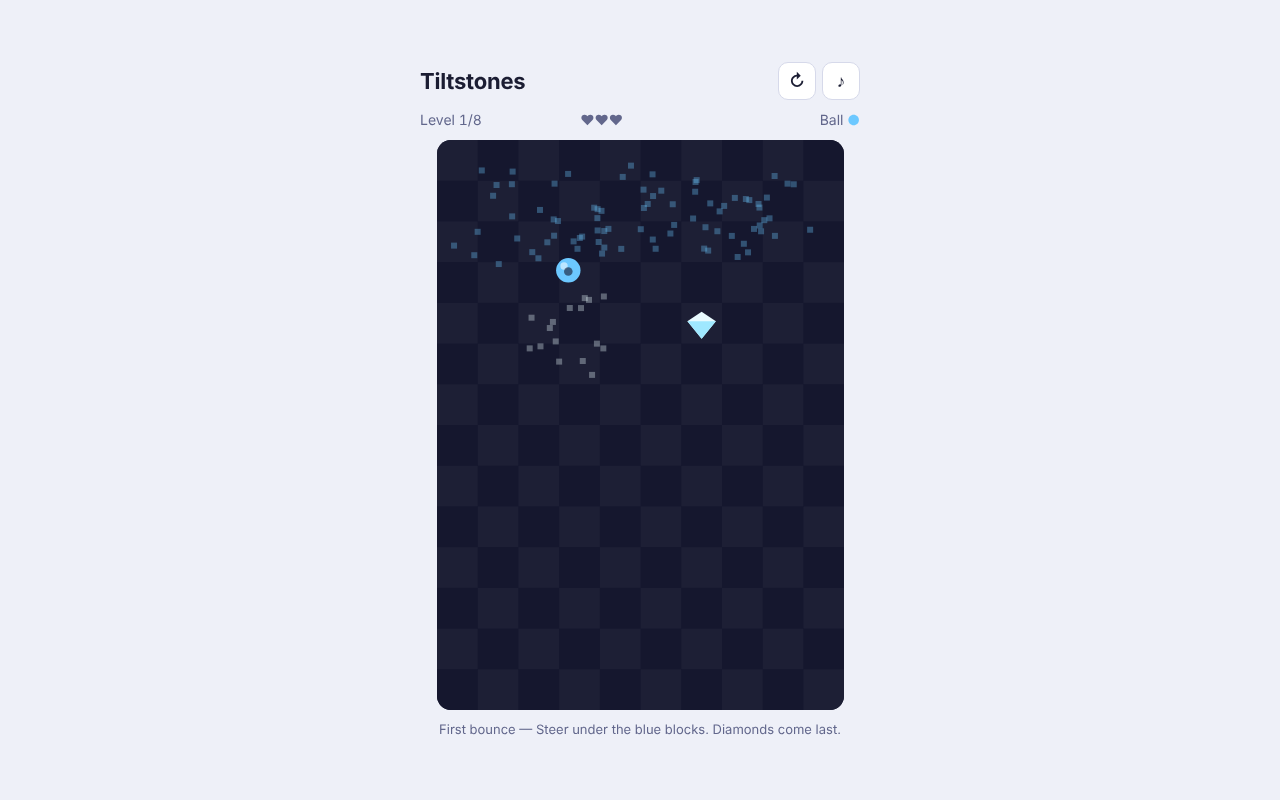
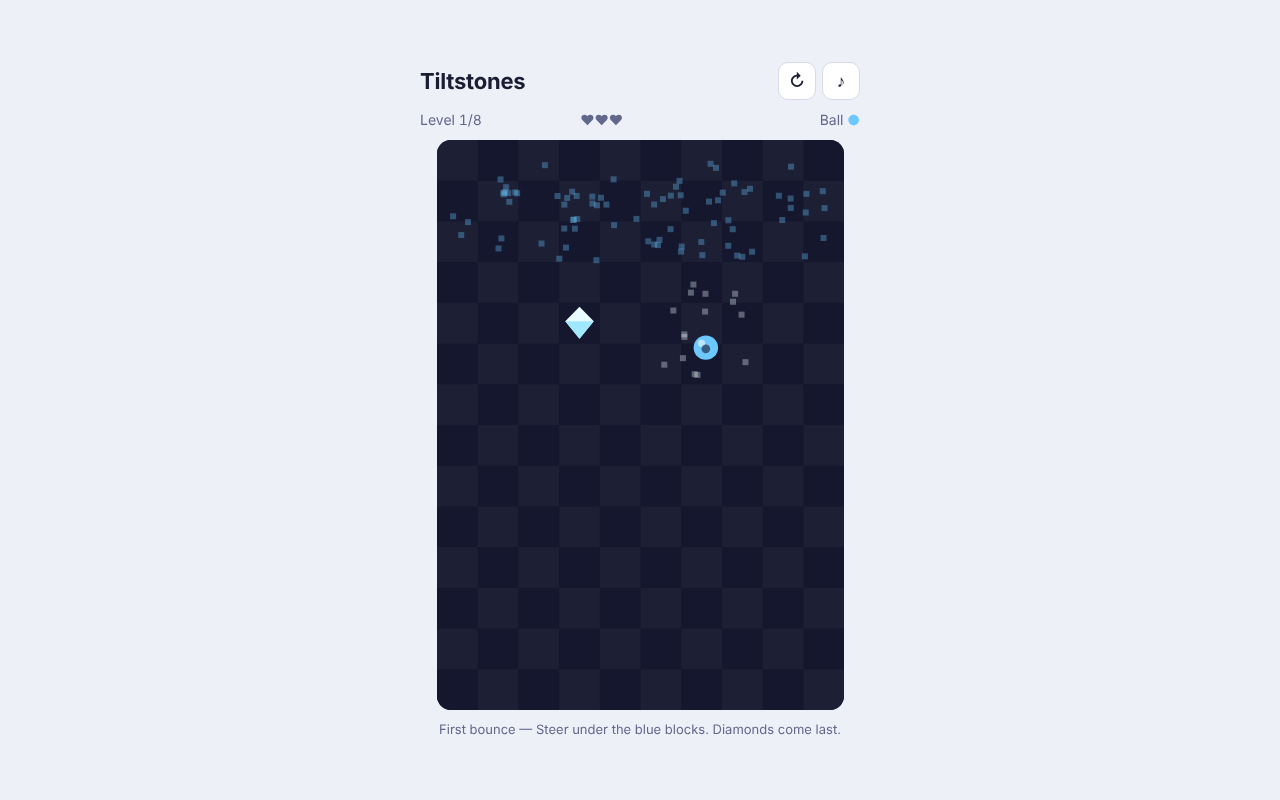
tiltstones: reviewer fixes (spawn safety, tilt calibration + meter, stuck warning, faster bounce)

Changed region(s): [[0.3438, 0.2188, 0.625, 0.4375], [0.5312, 0.3438, 0.5625, 0.4688], [0.375, 0.2188, 0.4062, 0.25]]

diff --git a/games/tiltstones/index.html b/games/tiltstones/index.html
@@ -30,6 +30,11 @@
   .icon { width: 38px; height: 38px; border-radius: 10px; border: 1px solid var(--line); background: var(--panel); color: var(--ink); font: 600 17px var(--font); cursor: pointer; display: grid; place-items: center; padding: 0; }
   .hud { display: flex; justify-content: space-between; align-items: center; color: var(--muted); font-variant-numeric: tabular-nums; font-size: 14px; gap: 8px; }
   .hud b { color: var(--ink); font-weight: 600; }
+  #tiltm { position: relative; width: 56px; height: 8px; border-radius: 4px; background: var(--line); }
+  #tiltm[hidden] { display: none; }
+  #tiltm::after { content: ""; position: absolute; left: 50%; top: -2px; width: 1px; height: 12px; background: var(--muted); }
+  #tiltDot { position: absolute; top: -2px; left: 50%; width: 12px; height: 12px; margin-left: -6px; border-radius: 50%; background: var(--accent); }
+  .help.warn { color: #d9534f; font-weight: 600; }
   .stage { position: relative; width: fit-content; max-width: 100%; margin: 0 auto; }
   canvas { display: block; width: 100%; height: auto; border-radius: 14px; touch-action: none; background: #15172e; }
   .overlay { position: absolute; inset: 0; display: grid; place-items: center; text-align: center; padding: 20px; border-radius: 14px;
@@ -61,6 +66,7 @@
     <span id="lvl">Level 1</span>
     <span id="lives">♥♥♥</span>
     <span id="keys"></span>
+    <span id="tiltm" hidden aria-label="Tilt"><i id="tiltDot"></i></span>
     <span>Ball <b id="ballc">●</b></span>
   </div>
   <div class="stage">
@@ -89,7 +95,9 @@
 // ======================= constants =======================
 const W = 10, H = 14;              // grid in cells
 const R = 0.3;                     // ball half-size (cells)
-const VY = 7.5;                    // vertical speed, cells/s
+const VY = 9;                      // vertical speed, cells/s
+const SNAP = 1.6;                  // drift toward the column centre when not steering, cells/s
+const GRACE = 30;                  // steps the ball waits after a respawn
 const VXMAX = 5.5;                 // max horizontal speed, cells/s
 const ACC = 45;                    // horizontal acceleration, cells/s^2
 const DT = 1 / 60;                 // fixed sim step
@@ -182,7 +190,7 @@ const LEVELS = [
     "...*..*...",
     "..........",
     "..........",
-    "....o.....",
+    "o.........",
   ]},
   { name: "The vault", hint: "Grab the key, then hit the lock.", map: [
     ".#*#......",
@@ -212,7 +220,7 @@ const LEVELS = [
     "..........",
     "...b..b...",
     "..........",
-    "B........*",
+    "B....*....",
     "..........",
     "....o.....",
   ]},
@@ -245,7 +253,7 @@ function newGame(level) {
     else grid.push(ch);
   }
   return { level, grid, start: [sx, sy], ball: { x: sx, y: sy, vx: 0, vy: -VY, color: 0 },
-    lives: LIVES, keys: 0, screen: "playing", steps: 0, score: 0, combo: 0, ev: [] };
+    lives: LIVES, keys: 0, screen: "playing", steps: 0, score: 0, combo: 0, grace: 0, ev: [] };
 }
 const cellAt = (g, x, y) => (x < 0 || x >= W || y < 0 || y >= H) ? "#" : g.grid[y * W + x];
 const solid = (ch) => ch !== ".";
@@ -263,7 +271,7 @@ function counts(g) {
 }
 function respawn(g) {
   g.ball = { x: g.start[0], y: g.start[1], vx: 0, vy: -VY, color: 0 };
-  g.combo = 0;
+  g.combo = 0; g.grace = GRACE;
 }
 // returns true if the ball must stop (life lost)
 function hit(g, cx, cy) {
@@ -307,6 +315,10 @@ function step(g, steer) {
   const target = Math.max(-1, Math.min(1, steer)) * VXMAX;
   const dv = target - b.vx, maxd = ACC * DT;
   b.vx += Math.max(-maxd, Math.min(maxd, dv));
+  if (steer === 0 && Math.abs(b.vx) < 0.05) {   // gentle snap to the column centre
+    const cxm = Math.floor(b.x) + 0.5, d = cxm - b.x, m = SNAP * DT;
+    if (Math.abs(d) > 1e-4 && !solid(cellAt(g, Math.floor(b.x), Math.floor(b.y - R))) && !solid(cellAt(g, Math.floor(b.x), Math.floor(b.y + R - 1e-9)))) b.x += Math.max(-m, Math.min(m, d));
+  }
   if (b.vx !== 0) {
     const nx = b.x + b.vx * DT;
     const hits = overlapCells(nx, b.y).filter(([cx, cy]) => solid(cellAt(g, cx, cy)));
@@ -320,7 +332,8 @@ function step(g, steer) {
       if (pick[0] >= 0 && pick[0] < W && pick[1] >= 0 && pick[1] < H) { if (hit(g, pick[0], pick[1])) return g; }
     } else b.x = nx;
   }
-  // vertical
+  // vertical (the ball hovers for a moment after a respawn so you can steer away)
+  if (g.grace > 0) { g.grace--; return g; }
   const ny = b.y + b.vy * DT;
   const vh = overlapCells(b.x, ny).filter(([cx, cy]) => solid(cellAt(g, cx, cy)));
   if (vh.length) {
@@ -592,11 +605,21 @@ function showOverlay() {
 }
 function startLevel(lv) {
   game = newGame(lv); screen = "playing"; particles = []; flash = 0; pulse = 0;
-  $("help").textContent = `${LEVELS[lv].name} — ${LEVELS[lv].hint}`;
+  if (tilt != null) tiltZero = tilt;   // however you hold the phone when a level starts is "level"
+  stuckShown = false;
+  $("help").classList.remove("warn"); $("help").textContent = levelHelp();
   updateHud(); showOverlay();
 }
+let stuckShown = false;
+const levelHelp = () => `${LEVELS[game.level].name} — ${LEVELS[game.level].hint}` + (tiltSeen ? " · tilt zeroed to how you hold the phone" : "");
 function sync() {
   handleEvents(); updateHud();
+  const stuck = game.screen === "playing" && game.ball.color !== 0 && counts(game).colors[0] > 0;
+  if (stuck !== stuckShown) {
+    stuckShown = stuck;
+    $("help").classList.toggle("warn", stuck);
+    $("help").textContent = stuck ? (counts(game).skulls ? "The ball can't turn blue again — hit a skull or press ↻." : "The ball can't turn blue again — press ↻ to restart.") : levelHelp();
+  }
   if (game.screen !== "playing" && screen === "playing") {
     screen = game.screen;
     if (game.screen === "won") { progress = Math.max(progress, Math.min(LEVELS.length - 1, game.level + 1)); try { localStorage.setItem("tiltstones-level", String(progress)); } catch (e) {} }
@@ -613,7 +636,7 @@ function overlayAction() {
 
 // ======================= input =======================
 const held = { left: false, right: false };
-let tilt = null, tiltSeen = false, tiltAsked = false;
+let tilt = null, tiltSeen = false, tiltAsked = false, tiltZero = 0;
 function requestTilt() {
   if (tiltAsked) return; tiltAsked = true;
   const DOE = window.DeviceOrientationEvent;
@@ -627,23 +650,24 @@ function listenTilt() {
     let a = e.gamma || 0;
     const ang = (window.screen.orientation && window.screen.orientation.angle) || window.orientation || 0;
     if (ang === 90) a = e.beta || 0; else if (ang === -90 || ang === 270) a = -(e.beta || 0);
-    tilt = a; tiltSeen = true;
+    tilt = a;
+    if (!tiltSeen) { tiltSeen = true; tiltZero = a; $("tiltm").hidden = false; if (game) $("help").textContent = levelHelp(); }
   });
   setTimeout(() => { if (!tiltSeen && matchMedia("(pointer: coarse)").matches) noTilt(); }, 1500);
 }
-function noTilt(msg) { if (matchMedia("(pointer: coarse)").matches) $("help").textContent = msg || "No tilt sensor here — hold ◀ ▶ to steer."; }
+function noTilt(msg) { if (!tiltSeen && matchMedia("(pointer: coarse)").matches) $("help").textContent = msg || "No tilt sensor here — hold ◀ ▶ to steer."; }
 function currentSteer() {
   if (held.left !== held.right) return held.left ? -1 : 1;
   if (held.left && held.right) return 0;
   if (tilt == null) return 0;
-  const dz = 3, full = 22, m = Math.abs(tilt);
+  const a = tilt - tiltZero, dz = 3, full = 22, m = Math.abs(a);
   if (m < dz) return 0;
-  return Math.sign(tilt) * Math.min(1, (m - dz) / (full - dz));
+  return Math.sign(a) * Math.min(1, (m - dz) / (full - dz));
 }
 const KEYMAP = { ArrowLeft: "left", a: "left", A: "left", ArrowRight: "right", d: "right", D: "right" };
 document.addEventListener("keydown", (e) => {
   if (KEYMAP[e.key]) { e.preventDefault(); held[KEYMAP[e.key]] = true; return; }
-  if (e.key === "r" || e.key === "R") { if (game) startLevel(game.level); return; }
+  if (e.key === "r" || e.key === "R") { if (screen === "title") overlayAction(); else { ensureAudio(); startLevel(game.level); } return; }
   if (e.key === "m" || e.key === "M") { toggleMute(); return; }
   if ((e.key === "Enter" || e.key === " ") && screen !== "playing") { e.preventDefault(); overlayAction(); }
 });
@@ -667,7 +691,7 @@ cv.addEventListener("pointerdown", (e) => {
   cv.addEventListener("pointerup", off); cv.addEventListener("pointercancel", off);
 });
 $("ovBtn").addEventListener("click", overlayAction);
-$("restartBtn").addEventListener("click", () => { ensureAudio(); if (game) startLevel(game.level); else overlayAction(); });
+$("restartBtn").addEventListener("click", () => { if (screen === "title") overlayAction(); else { ensureAudio(); requestTilt(); startLevel(game.level); } });
 function toggleMute() { muted = !muted; try { localStorage.setItem("tiltstones-muted", muted ? "1" : "0"); } catch (e) {} $("muteBtn").textContent = muted ? "✕" : "♪"; $("muteBtn").setAttribute("aria-label", muted ? "Unmute sound" : "Mute sound"); }
 $("muteBtn").addEventListener("click", () => { ensureAudio(); toggleMute(); });
 $("muteBtn").textContent = muted ? "✕" : "♪";
@@ -685,6 +709,7 @@ function frame(now) {
   for (const p of particles) { p.x += p.vx * dt; p.y += p.vy * dt; p.vy += 6 * dt; p.life -= dt; }
   particles = particles.filter((p) => p.life > 0);
   flash = Math.max(0, flash - dt * 2.5); pulse = Math.max(0, pulse - dt * 2);
+  if (tiltSeen) $("tiltDot").style.left = (50 + 50 * currentSteer()) + "%";
   draw(now);
   requestAnimationFrame(frame);
 }
